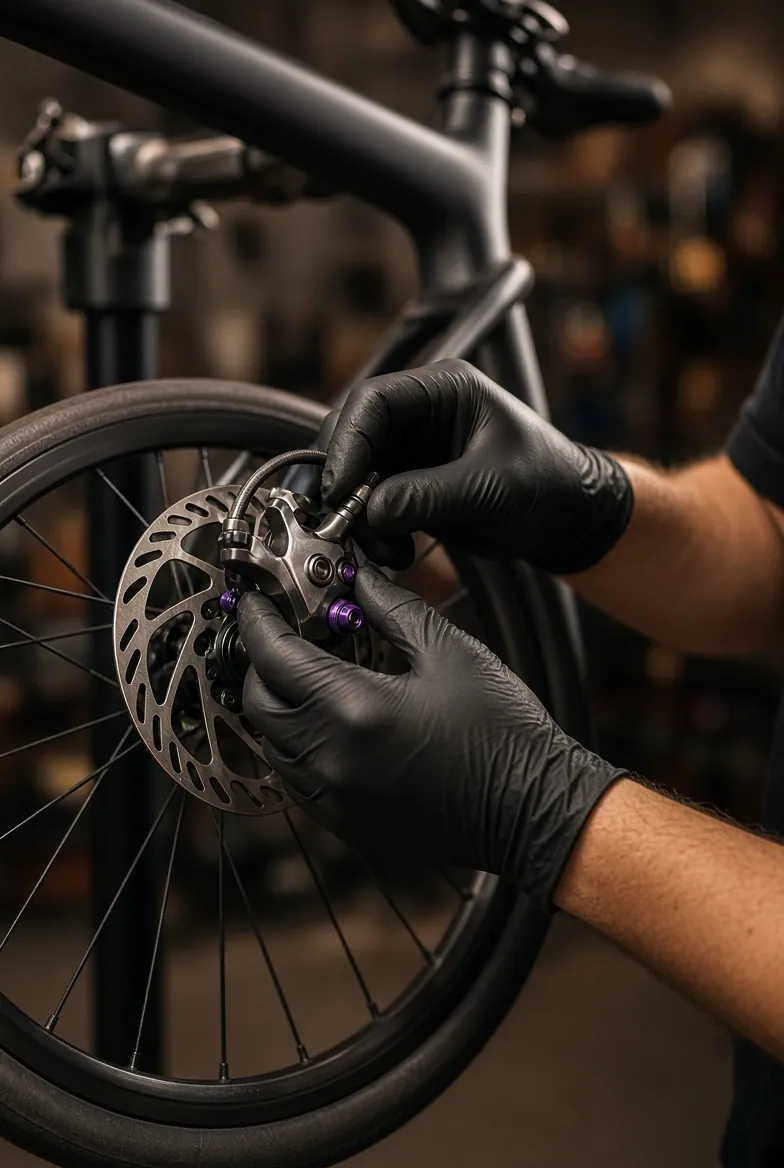
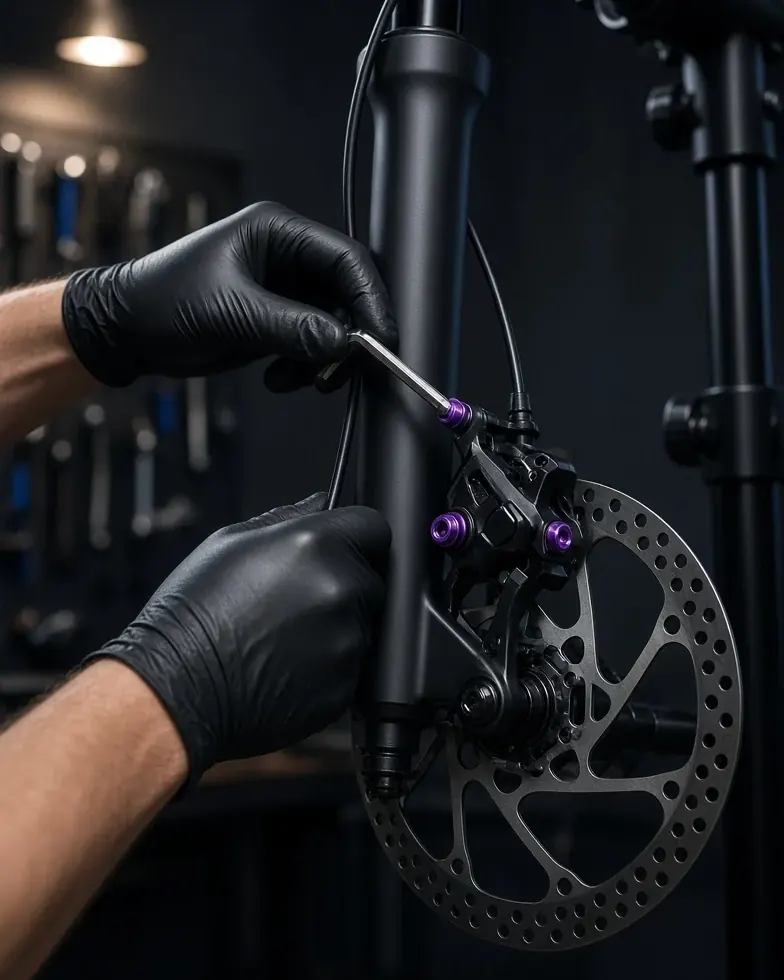
Images Grok : visuels definitifs et textes alternatifs

diff --git a/index.html b/index.html
@@ -206,7 +206,7 @@
       </div>
       <div class="atelier__photos">
         <figure class="atelier__photo atelier__photo--a" style="margin:0"><img src="assets/img/m/magasin-rostrenen-1600.webp" srcset="assets/img/m/magasin-rostrenen-800.webp 800w, assets/img/m/magasin-rostrenen-1600.webp 1600w" sizes="(max-width: 900px) 90vw, 40vw" alt="Intérieur du magasin Ets Corbières à Rostrenen : vélos et rayons d'accessoires" loading="lazy"><figcaption>Le magasin, photo du site</figcaption></figure>
-        <figure class="atelier__photo atelier__photo--b" style="margin:0"><div class="grok ph-atelier" data-grok="atelier-mains-4x5" aria-hidden="true"></div><figcaption>Image d'ambiance</figcaption></figure>
+        <figure class="atelier__photo atelier__photo--b" style="margin:0"><div class="grok ph-atelier has-img"><img src="assets/img/grok/atelier-mains-4x5.webp" srcset="assets/img/grok/atelier-mains-4x5.webp 784w" sizes="(max-width: 900px) 42vw, 20vw" width="784" height="980" alt="Mains gantées de noir serrant à la clé Allen l’étrier de frein à disque d’une fourche, vélo sur pied d’atelier" loading="lazy" decoding="async"></div><figcaption>Image d'ambiance</figcaption></figure>
       </div>
     </div>
     <figure class="atelier__band"><div class="grok ph-atelier" data-grok="atelier-interieur-16x9" aria-hidden="true"></div><figcaption>Image d'ambiance, pas l'atelier de Rostrenen</figcaption></figure>
